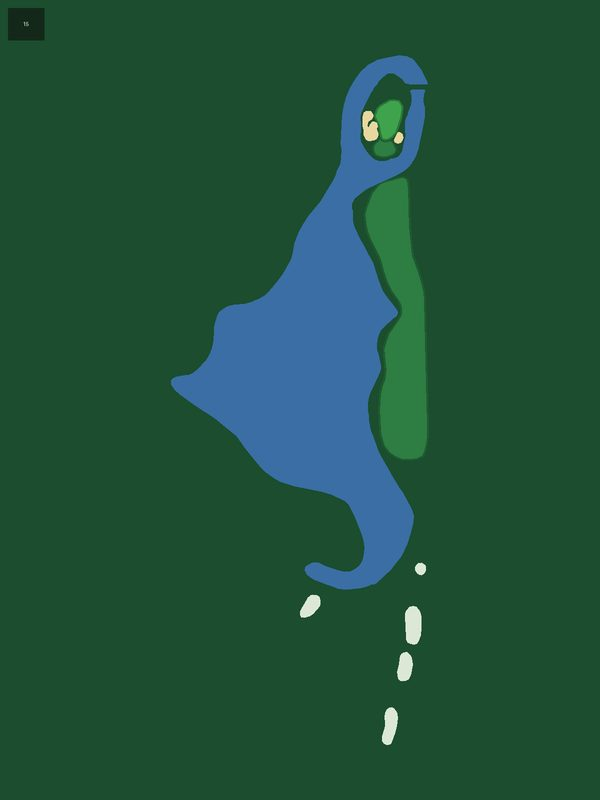
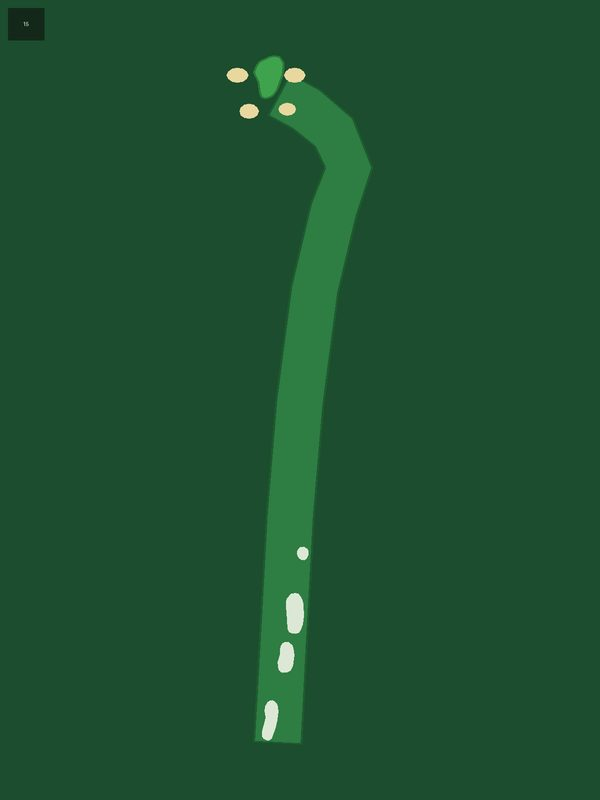
TPC Scottsdale: fix map geometry (H1 water, H5/H9/H15 rebuilds, H7/H8/H18 features, H10 180° rotation) + 7 par corrections + 14 to-pin markers + distance scales

Changed region(s): [[0.27, 0.0625, 0.72, 0.9375], [0.66, 0.75, 0.72, 0.875], [0.63, 0.875, 0.66, 0.9375]]

diff --git a/app/lib/widgets/hole_map_manifest.dart b/app/lib/widgets/hole_map_manifest.dart
@@ -252,24 +252,24 @@ const holeMapManifest = <String, Map<int, HoleMapAsset>>{
     18: HoleMapAsset(par: 4, map: 'assets/hole_maps/tpc-sawgrass/18.jpg', mask: 'assets/hole_maps/tpc-sawgrass/18_mask.png', tee: Offset(0.562, 0.904), pin: Offset(0.559, 0.112), source: 'osm'),
   },
   'TPC Scottsdale': {
-    1: HoleMapAsset(par: 4, map: 'assets/hole_maps/tpc-scottsdale/1.jpg', mask: 'assets/hole_maps/tpc-scottsdale/1_mask.png', tee: Offset(0.532, 0.921), pin: Offset(0.535, 0.154), source: 'osm'),
+    1: HoleMapAsset(par: 4, map: 'assets/hole_maps/tpc-scottsdale/1.jpg', mask: 'assets/hole_maps/tpc-scottsdale/1_mask.png', tee: Offset(0.591, 0.904), pin: Offset(0.596, 0.127), source: 'mixed', yardsPerPixel: 0.5963, yardages: const [YardageMarker(offset: Offset(0.583, 0.374), yards: 118), YardageMarker(offset: Offset(0.500, 0.571), yards: 212)]),
     2: HoleMapAsset(par: 4, map: 'assets/hole_maps/tpc-scottsdale/2.jpg', mask: 'assets/hole_maps/tpc-scottsdale/2_mask.png', tee: Offset(0.477, 0.925), pin: Offset(0.478, 0.126), source: 'osm'),
     3: HoleMapAsset(par: 5, map: 'assets/hole_maps/tpc-scottsdale/3.jpg', mask: 'assets/hole_maps/tpc-scottsdale/3_mask.png', tee: Offset(0.548, 0.930), pin: Offset(0.548, 0.182), source: 'osm'),
     4: HoleMapAsset(par: 3, map: 'assets/hole_maps/tpc-scottsdale/4.jpg', mask: 'assets/hole_maps/tpc-scottsdale/4_mask.png', tee: Offset(0.590, 0.856), pin: Offset(0.575, 0.271), source: 'osm'),
-    5: HoleMapAsset(par: 4, map: 'assets/hole_maps/tpc-scottsdale/5.jpg', mask: 'assets/hole_maps/tpc-scottsdale/5_mask.png', tee: Offset(0.500, 0.861), pin: Offset(0.499, 0.163), source: 'osm'),
-    6: HoleMapAsset(par: 4, map: 'assets/hole_maps/tpc-scottsdale/6.jpg', mask: 'assets/hole_maps/tpc-scottsdale/6_mask.png', tee: Offset(0.511, 0.910), pin: Offset(0.508, 0.215), source: 'osm'),
-    7: HoleMapAsset(par: 3, map: 'assets/hole_maps/tpc-scottsdale/7.jpg', mask: 'assets/hole_maps/tpc-scottsdale/7_mask.png', tee: Offset(0.404, 0.714), pin: Offset(0.408, 0.187), source: 'osm'),
-    8: HoleMapAsset(par: 4, map: 'assets/hole_maps/tpc-scottsdale/8.jpg', mask: 'assets/hole_maps/tpc-scottsdale/8_mask.png', tee: Offset(0.457, 0.914), pin: Offset(0.453, 0.253), source: 'osm'),
-    9: HoleMapAsset(par: 4, map: 'assets/hole_maps/tpc-scottsdale/9.jpg', mask: 'assets/hole_maps/tpc-scottsdale/9_mask.png', tee: Offset(0.368, 0.914), pin: Offset(0.367, 0.115), source: 'osm'),
-    10: HoleMapAsset(par: 4, map: 'assets/hole_maps/tpc-scottsdale/10.jpg', mask: 'assets/hole_maps/tpc-scottsdale/10_mask.png', tee: Offset(0.487, 0.769), pin: Offset(0.421, 0.315), source: 'osm'),
-    11: HoleMapAsset(par: 4, map: 'assets/hole_maps/tpc-scottsdale/11.jpg', mask: 'assets/hole_maps/tpc-scottsdale/11_mask.png', tee: Offset(0.532, 0.922), pin: Offset(0.530, 0.201), source: 'osm'),
-    12: HoleMapAsset(par: 3, map: 'assets/hole_maps/tpc-scottsdale/12.jpg', mask: 'assets/hole_maps/tpc-scottsdale/12_mask.png', tee: Offset(0.403, 0.882), pin: Offset(0.400, 0.317), source: 'osm'),
+    5: HoleMapAsset(par: 4, map: 'assets/hole_maps/tpc-scottsdale/5.jpg', mask: 'assets/hole_maps/tpc-scottsdale/5_mask.png', tee: Offset(0.350, 0.885), pin: Offset(0.348, 0.105), source: 'osm'),
+    6: HoleMapAsset(par: 3, map: 'assets/hole_maps/tpc-scottsdale/6.jpg', mask: 'assets/hole_maps/tpc-scottsdale/6_mask.png', tee: Offset(0.511, 0.910), pin: Offset(0.508, 0.215), source: 'osm', yardsPerPixel: 0.3633, yardages: const [YardageMarker(offset: Offset(0.489, 0.219), yards: 8), YardageMarker(offset: Offset(0.563, 0.230), yards: 17)]),
+    7: HoleMapAsset(par: 4, map: 'assets/hole_maps/tpc-scottsdale/7.jpg', mask: 'assets/hole_maps/tpc-scottsdale/7_mask.png', tee: Offset(0.432, 0.905), pin: Offset(0.465, 0.116), source: 'osm'),
+    8: HoleMapAsset(par: 3, map: 'assets/hole_maps/tpc-scottsdale/8.jpg', mask: 'assets/hole_maps/tpc-scottsdale/8_mask.png', tee: Offset(0.510, 0.913), pin: Offset(0.505, 0.173), source: 'osm', yardsPerPixel: 0.3575, yardages: const [YardageMarker(offset: Offset(0.408, 0.173), yards: 16), YardageMarker(offset: Offset(0.602, 0.173), yards: 12)]),
+    9: HoleMapAsset(par: 5, map: 'assets/hole_maps/tpc-scottsdale/9.jpg', mask: 'assets/hole_maps/tpc-scottsdale/9_mask.png', tee: Offset(0.512, 0.904), pin: Offset(0.513, 0.111), source: 'osm'),
+    10: HoleMapAsset(par: 5, map: 'assets/hole_maps/tpc-scottsdale/10.jpg', mask: 'assets/hole_maps/tpc-scottsdale/10_mask.png', tee: Offset(0.608, 0.914), pin: Offset(0.614, 0.111), source: 'osm'),
+    11: HoleMapAsset(par: 4, map: 'assets/hole_maps/tpc-scottsdale/11.jpg', mask: 'assets/hole_maps/tpc-scottsdale/11_mask.png', tee: Offset(0.532, 0.922), pin: Offset(0.530, 0.201), source: 'osm', yardsPerPixel: 0.8215, yardages: const [YardageMarker(offset: Offset(0.525, 0.530), yards: 190), YardageMarker(offset: Offset(0.533, 0.465), yards: 157)]),
+    12: HoleMapAsset(par: 4, map: 'assets/hole_maps/tpc-scottsdale/12.jpg', mask: 'assets/hole_maps/tpc-scottsdale/12_mask.png', tee: Offset(0.403, 0.882), pin: Offset(0.400, 0.317), source: 'osm'),
     13: HoleMapAsset(par: 5, map: 'assets/hole_maps/tpc-scottsdale/13.jpg', mask: 'assets/hole_maps/tpc-scottsdale/13_mask.png', tee: Offset(0.482, 0.918), pin: Offset(0.479, 0.106), source: 'osm'),
     14: HoleMapAsset(par: 4, map: 'assets/hole_maps/tpc-scottsdale/14.jpg', mask: 'assets/hole_maps/tpc-scottsdale/14_mask.png', tee: Offset(0.553, 0.868), pin: Offset(0.552, 0.409), source: 'osm'),
-    15: HoleMapAsset(par: 5, map: 'assets/hole_maps/tpc-scottsdale/15.jpg', mask: 'assets/hole_maps/tpc-scottsdale/15_mask.png', tee: Offset(0.648, 0.922), pin: Offset(0.648, 0.148), source: 'osm'),
-    16: HoleMapAsset(par: 3, map: 'assets/hole_maps/tpc-scottsdale/16.jpg', mask: 'assets/hole_maps/tpc-scottsdale/16_mask.png', tee: Offset(0.537, 0.909), pin: Offset(0.531, 0.317), source: 'osm'),
+    15: HoleMapAsset(par: 4, map: 'assets/hole_maps/tpc-scottsdale/15.jpg', mask: 'assets/hole_maps/tpc-scottsdale/15_mask.png', tee: Offset(0.450, 0.901), pin: Offset(0.448, 0.100), source: 'osm', yardsPerPixel: 0.5399, yardages: const [YardageMarker(offset: Offset(0.423, 0.138), yards: 18), YardageMarker(offset: Offset(0.515, 0.128), yards: 25)]),
+    16: HoleMapAsset(par: 3, map: 'assets/hole_maps/tpc-scottsdale/16.jpg', mask: 'assets/hole_maps/tpc-scottsdale/16_mask.png', tee: Offset(0.537, 0.909), pin: Offset(0.531, 0.317), source: 'osm', yardsPerPixel: 0.4545, yardages: const [YardageMarker(offset: Offset(0.482, 0.362), yards: 17), YardageMarker(offset: Offset(0.582, 0.362), yards: 17)]),
     17: HoleMapAsset(par: 4, map: 'assets/hole_maps/tpc-scottsdale/17.jpg', mask: 'assets/hole_maps/tpc-scottsdale/17_mask.png', tee: Offset(0.468, 0.913), pin: Offset(0.468, 0.134), source: 'osm'),
-    18: HoleMapAsset(par: 4, map: 'assets/hole_maps/tpc-scottsdale/18.jpg', mask: 'assets/hole_maps/tpc-scottsdale/18_mask.png', tee: Offset(0.561, 0.918), pin: Offset(0.563, 0.121), source: 'osm'),
+    18: HoleMapAsset(par: 4, map: 'assets/hole_maps/tpc-scottsdale/18.jpg', mask: 'assets/hole_maps/tpc-scottsdale/18_mask.png', tee: Offset(0.488, 0.918), pin: Offset(0.493, 0.118), source: 'mixed', yardsPerPixel: 0.7176, yardages: const [YardageMarker(offset: Offset(0.500, 0.441), yards: 186), YardageMarker(offset: Offset(0.383, 0.503), yards: 221)]),
   },
   'TPC Southwind': {
     1: HoleMapAsset(par: 4, map: 'assets/hole_maps/tpc-southwind/1.jpg', mask: 'assets/hole_maps/tpc-southwind/1_mask.png', tee: Offset(0.370, 0.897), pin: Offset(0.429, 0.219), source: 'osm', yardsPerPixel: 0.31449, yardages: const [YardageMarker(offset: Offset(0.500, 0.394), yards: 139), YardageMarker(offset: Offset(0.511, 0.459), yards: 174)]),
